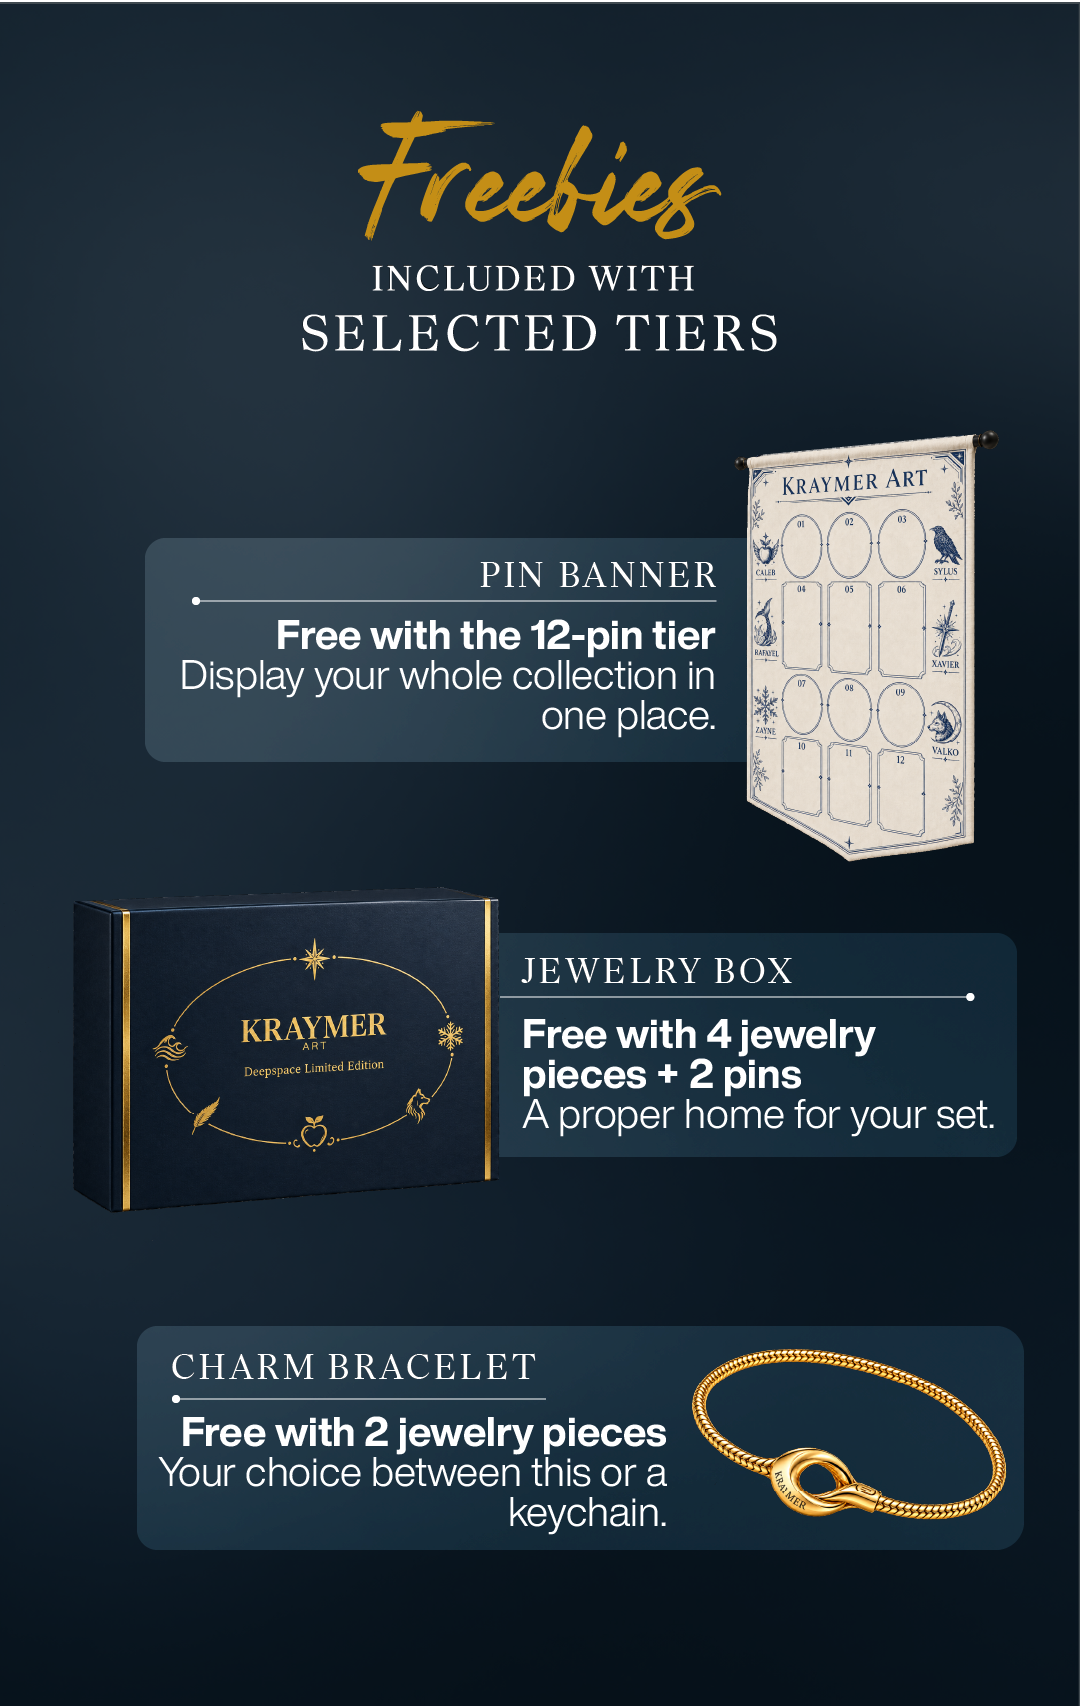
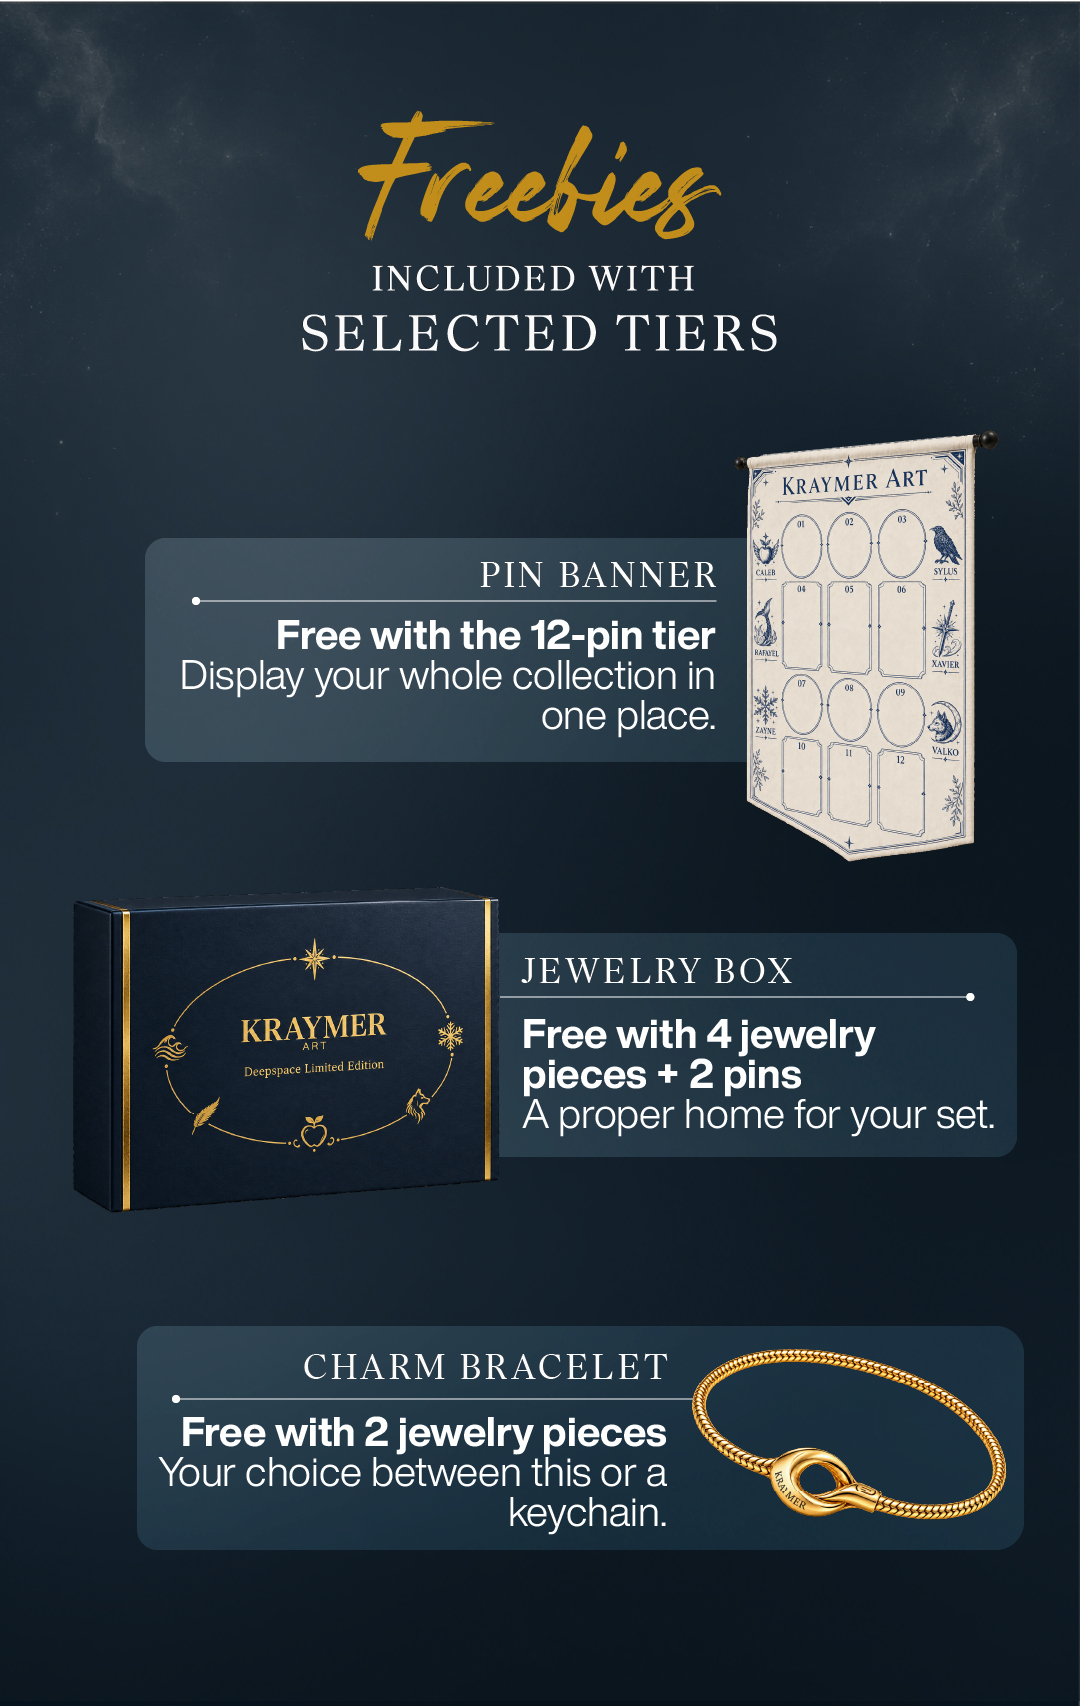
Remove New to Kickstarter, refresh all final images, bridge the pledge-now to shipping gap
Drops Made to Last, Build Your Pledge and New to Kickstarter entirely
since none of those three are finished designs. Re-copies every other
screen and character portrait from the latest export. Adds one bridge
line after the About-this-campaign graphic so it doesn't dead-end
right before Shipping now that the pledge tutorial is gone.

diff --git a/kickstarter-preview.html b/kickstarter-preview.html
@@ -187,9 +187,7 @@
         <p>Depending on your tier, your pledge also comes with a little extra: an exclusive jewelry storage box, an enamel pin display banner, or the charm bracelet shown earlier. Check exactly which tiers include which on the reward list below.</p>
 
         <img src="assets/LADS/howItWorksScreen.png" alt="About this campaign: free to pledge, limited release, pledge now">
-
-        <img src="assets/LADS/howToPledge.png" alt="New to Kickstarter? Here's how pledging works">
-        <p>If this is your first time backing something on Kickstarter, it's a lot simpler than it looks. Pick your reward, create a free account if you don't already have one, confirm your payment method, and that's it, you're not charged until the campaign ends.</p>
+        <p>Ready to lock in your spot? Here's what happens once you do.</p>
 
         <img src="assets/LADS/shipping.png" alt="Shipping and Packaging">
         <p>Every piece of jewelry in this campaign ships in the exact same box and pouch you already know from KraymerArt. Nothing about how your order arrives is changing, just what's inside it!</p>
